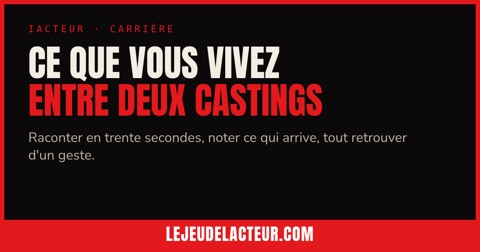
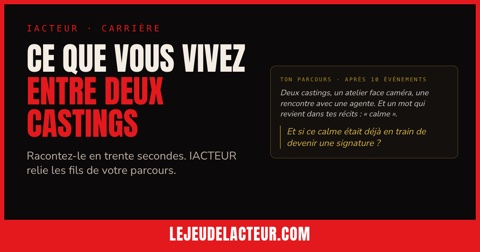
CARRIERE : couverture avec la lecture du parcours en exemple (option B) ; visuels Instagram, carre, Facebook

diff --git a/src/app/visuels/[format]/page.tsx b/src/app/visuels/[format]/page.tsx
@@ -12,7 +12,7 @@ import BandeauIacteur from "@/components/BandeauIacteur";
 
 export const metadata: Metadata = { title: "Visuels IACTEUR", robots: { index: false, follow: false } };
 export function generateStaticParams() {
-  return ["bandeau", "instagram", "carre", "facebook", "couverture-7-exercices", "cv-bandeau", "cv-instagram", "cv-carre", "cv-facebook", "replique-bandeau", "replique-instagram", "replique-carre", "replique-facebook", "minicoach-instagram", "minicoach-story", "minicoach-carre", "minicoach-facebook", "couverture-carriere"].map((format) => ({ format }));
+  return ["bandeau", "instagram", "carre", "facebook", "couverture-7-exercices", "cv-bandeau", "cv-instagram", "cv-carre", "cv-facebook", "replique-bandeau", "replique-instagram", "replique-carre", "replique-facebook", "minicoach-instagram", "minicoach-story", "minicoach-carre", "minicoach-facebook", "couverture-carriere", "carriere-instagram", "carriere-carre", "carriere-facebook"].map((format) => ({ format }));
 }
 
 const MASQUER = `
@@ -141,6 +141,62 @@ const TEXTE_MC_CENTRE = (
   </>
 );
 
+// CARRIÈRE (18/10/2026) : la « récompense » en exemple (noms inventés) : la question reçue après un
+// événement, ou la lecture du parcours (le Fil Conducteur, sans ce mot)
+const ExempleCarriere = ({ echelle, mode }: { echelle: number; mode: "question" | "fil" }) => (
+  <div
+    style={{
+      display: "flex",
+      flexDirection: "column",
+      gap: 12 * echelle,
+      padding: 26 * echelle,
+      borderRadius: 14 * echelle,
+      border: "1px solid rgba(201,162,39,.45)",
+      background: "rgba(20,17,14,.9)",
+    }}
+  >
+    {mode === "question" ? (
+      <>
+        <p className="font-mono" style={{ margin: 0, fontSize: 15 * echelle, letterSpacing: "0.2em", color: "rgba(201,162,39,.85)" }}>
+          CASTING · JEUDI 15 OCTOBRE
+        </p>
+        <p style={{ margin: 0, fontSize: 26 * echelle, lineHeight: 1.25 }}>Les Remparts, avec Claire Martin</p>
+        <p style={{ margin: 0, fontSize: 19 * echelle, lineHeight: 1.35, color: "rgba(243,237,228,.65)" }}>
+          « Elle m&apos;a demandé d&apos;être plus calme, et j&apos;ai trouvé quelque chose. »
+        </p>
+        <p style={{ margin: `${6 * echelle}px 0 0`, paddingLeft: 16 * echelle, borderLeft: `${3 * echelle}px solid rgba(201,162,39,.7)`, fontSize: 25 * echelle, lineHeight: 1.3, fontStyle: "italic", color: "#d9b44a" }}>
+          Qu&apos;est-ce que tu as trouvé, quand elle t&apos;a demandé d&apos;être plus calme ?
+        </p>
+      </>
+    ) : (
+      <>
+        <p className="font-mono" style={{ margin: 0, fontSize: 15 * echelle, letterSpacing: "0.2em", color: "rgba(201,162,39,.85)" }}>
+          TON PARCOURS · APRÈS 10 ÉVÉNEMENTS
+        </p>
+        <p style={{ margin: 0, fontSize: 22 * echelle, lineHeight: 1.35, fontStyle: "italic", color: "rgba(243,237,228,.85)" }}>
+          Deux castings, un atelier face caméra, une rencontre avec une agente. Et un mot qui revient dans tes récits : « calme ».
+        </p>
+        <p style={{ margin: `${4 * echelle}px 0 0`, paddingLeft: 16 * echelle, borderLeft: `${3 * echelle}px solid rgba(201,162,39,.7)`, fontSize: 25 * echelle, lineHeight: 1.3, fontStyle: "italic", color: "#d9b44a" }}>
+          Et si ce calme était déjà en train de devenir une signature ?
+        </p>
+      </>
+    )}
+  </div>
+);
+
+const TITRE_CARRIERE_VOUS = (
+  <>
+    Ce que vous vivez<br /><span style={{ color: "#e3191d" }}>entre deux castings</span>
+  </>
+);
+const TITRE_CARRIERE_TU = (
+  <>
+    Ce que tu vis<br /><span style={{ color: "#e3191d" }}>entre deux castings</span>
+  </>
+);
+const TEXTE_CARRIERE_TU = "Raconte-le en trente secondes. IACTEUR relie les fils de ton parcours.";
+const OFFERT_CARRIERE = "Tes 10 premiers événements offerts.";
+
 export default async function Visuel({ params }: PageProps<"/visuels/[format]">) {
   const { format } = await params;
 
@@ -181,26 +237,61 @@ export default async function Visuel({ params }: PageProps<"/visuels/[format]">)
     </div>
   );
 
-  if (format === "couverture-carriere") {
-    // Couverture de l'article CARRIÈRE V02 (1200 × 630, 19/10/2026)
+  if (format === "couverture-carriere" || format === "carriere-facebook") {
+    // CARRIÈRE (18/10, option B de David) : la récompense en exemple, la lecture du parcours.
+    // Couverture de l'article (vous, lejeudelacteur.com) ou Facebook / LinkedIn (tu, iacteur.com)
+    const fb = format === "carriere-facebook";
     return (
       <div style={{ ...cadre, width: 1200, height: 630 }}>
         <style>{MASQUER}</style>
-        <div style={{ position: "absolute", left: 60, top: 44, right: 60 }}>
-          <p className="font-mono" style={{ fontSize: 24, letterSpacing: "0.25em", color: "#e3191d", margin: 0 }}>IACTEUR · CARRIÈRE</p>
-          <p className="font-affiche uppercase" style={{ fontSize: 92, lineHeight: 1.02, margin: "20px 0 0" }}>
-            Ce que vous vivez<br /><span style={{ color: "#e3191d" }}>entre deux castings</span>
-          </p>
-          <p style={{ fontSize: 34, lineHeight: 1.3, margin: "24px 0 0", color: "#bdb2a6" }}>
-            Raconter en trente secondes, noter ce qui arrive, tout retrouver d&apos;un geste.
-          </p>
+        <div style={{ position: "absolute", left: 56, top: 44, width: 560 }}>
+          <p className="font-mono" style={{ fontSize: 22, letterSpacing: "0.25em", color: "#e3191d", margin: 0 }}>IACTEUR · CARRIÈRE</p>
+          <p className="font-affiche uppercase" style={{ fontSize: 80, lineHeight: 1.02, margin: "18px 0 0" }}>{fb ? TITRE_CARRIERE_TU : TITRE_CARRIERE_VOUS}</p>
+          <p style={{ fontSize: 28, lineHeight: 1.3, margin: "22px 0 0", color: "#bdb2a6" }}>{fb ? TEXTE_CARRIERE_TU : "Racontez-le en trente secondes. IACTEUR relie les fils de votre parcours."}</p>
+          {fb && <p style={{ fontSize: 28, fontWeight: 700, margin: "10px 0 0" }}>{OFFERT_CARRIERE}</p>}
         </div>
-        <div
-          style={{ position: "absolute", left: 0, right: 0, bottom: 0, height: 70, background: "#e3191d", display: "flex", alignItems: "center", justifyContent: "center" }}
-          className="font-affiche uppercase"
-        >
-          <span style={{ fontSize: 42, letterSpacing: "0.04em", color: "#fff" }}>lejeudelacteur.com</span>
+        <div style={{ position: "absolute", right: 44, top: 0, bottom: 70, width: 470, display: "flex", alignItems: "center" }}>
+          <ExempleCarriere echelle={0.9} mode="fil" />
         </div>
+        {bandeBas(70, 40, fb ? "iacteur.com" : "lejeudelacteur.com")}
+      </div>
+    );
+  }
+
+  if (format === "carriere-instagram") {
+    // 1080 × 1350 (post vertical)
+    return (
+      <div style={{ ...cadre, width: 1080, height: 1350 }}>
+        <style>{MASQUER}</style>
+        <div style={{ display: "flex", flexDirection: "column", alignItems: "center", gap: 26, paddingTop: 70, textAlign: "center" }}>
+          <Logo largeur={340} />
+          <p className="font-affiche uppercase" style={{ fontSize: 112, lineHeight: 1.02, margin: "14px 40px 0" }}>{TITRE_CARRIERE_TU}</p>
+          <p style={{ fontSize: 38, lineHeight: 1.35, margin: "0 90px", color: "#bdb2a6" }}>{TEXTE_CARRIERE_TU}</p>
+        </div>
+        <div style={{ position: "absolute", left: 70, right: 70, bottom: 230 }}>
+          <ExempleCarriere echelle={1.45} mode="fil" />
+          <p style={{ fontSize: 38, fontWeight: 700, margin: "34px 0 0", textAlign: "center" }}>{OFFERT_CARRIERE}</p>
+        </div>
+        {bandeBas(120, 58, "iacteur.com")}
+      </div>
+    );
+  }
+
+  if (format === "carriere-carre") {
+    // 1080 × 1080
+    return (
+      <div style={{ ...cadre, width: 1080, height: 1080 }}>
+        <style>{MASQUER}</style>
+        <div style={{ position: "absolute", left: 60, top: 50, right: 60 }}>
+          <Logo largeur={260} />
+          <p className="font-affiche uppercase" style={{ fontSize: 92, lineHeight: 1.02, margin: "24px 0 0" }}>{TITRE_CARRIERE_TU}</p>
+          <p style={{ fontSize: 32, lineHeight: 1.3, margin: "18px 0 0", color: "#bdb2a6" }}>{TEXTE_CARRIERE_TU}</p>
+        </div>
+        <div style={{ position: "absolute", left: 60, right: 60, bottom: 135 }}>
+          <ExempleCarriere echelle={1.3} mode="fil" />
+          <p style={{ fontSize: 32, fontWeight: 700, margin: "22px 0 0" }}>{OFFERT_CARRIERE}</p>
+        </div>
+        {bandeBas(100, 52, "iacteur.com")}
       </div>
     );
   }
